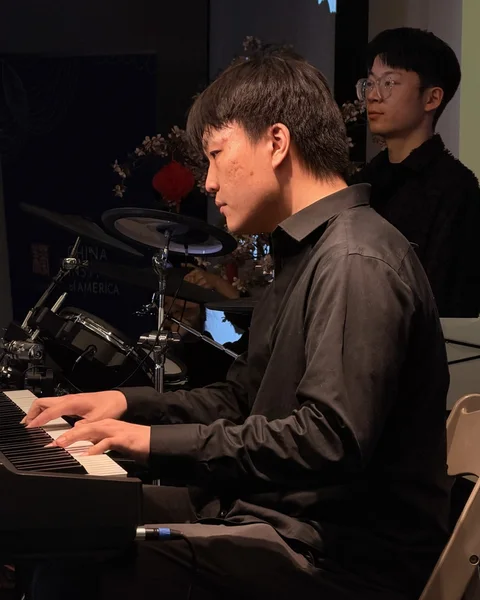
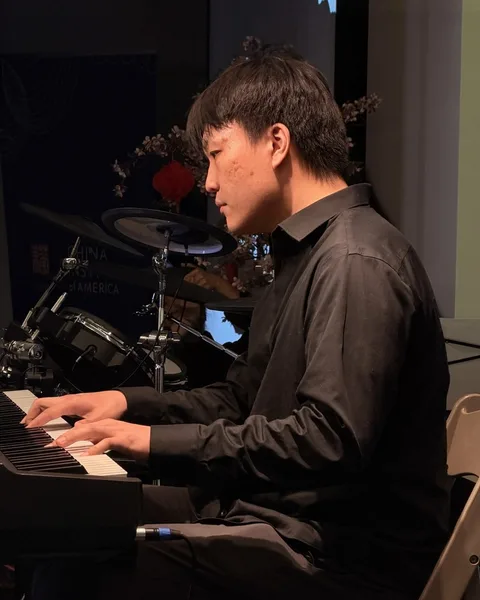
Will Song photo: dark stage shot, others removed

Changed region(s): [[0.7188, 0.03, 1.0, 0.54]]

diff --git a/index.html b/index.html
@@ -38,8 +38,8 @@
       d.className += ' motion ' + (ok ? 'sda' : 'sdf');
     })();
   </script>
-<link crossorigin="" href="https://cdn.jsdelivr.net" rel="preconnect"/><link href="https://cdn.jsdelivr.net/npm/lxgw-wenkai-webfont@1.7.0/lxgwwenkai-regular.css" media="print" onload="this.media='all'" rel="stylesheet"/><noscript><link href="https://cdn.jsdelivr.net/npm/lxgw-wenkai-webfont@1.7.0/lxgwwenkai-regular.css" rel="stylesheet"/></noscript><link href="style.css?v=20261117g" rel="stylesheet"/>
-<script defer="" onerror="document.documentElement.className=''" src="motion.js?v=20261117g"></script>
+<link crossorigin="" href="https://cdn.jsdelivr.net" rel="preconnect"/><link href="https://cdn.jsdelivr.net/npm/lxgw-wenkai-webfont@1.7.0/lxgwwenkai-regular.css" media="print" onload="this.media='all'" rel="stylesheet"/><noscript><link href="https://cdn.jsdelivr.net/npm/lxgw-wenkai-webfont@1.7.0/lxgwwenkai-regular.css" rel="stylesheet"/></noscript><link href="style.css?v=20261117h" rel="stylesheet"/>
+<script defer="" onerror="document.documentElement.className=''" src="motion.js?v=20261117h"></script>
 </head>
 <body>
 <a class="skip" data-i18n="t001" href="#main">跳到正文</a>
@@ -514,7 +514,7 @@
 </div>
 </article>
 <article class="member sd">
-<img alt="Will Song 老宋弹键盘" class="member-photo sd zoom" data-i18n-alt="alt120" decoding="async" height="1000" loading="lazy" style="object-position:50% 30%" src="img/member-willsong.webp?v=20261117g" width="800" srcset="img/s/member-willsong-480.webp?v=20261117g 480w, img/member-willsong.webp?v=20261117g 800w" sizes="(max-width: 980px) 46vw, 240px"/>
+<img alt="Will Song 老宋弹键盘" class="member-photo sd zoom" data-i18n-alt="alt120" decoding="async" height="1000" loading="lazy" style="object-position:50% 30%" src="img/member-willsong.webp?v=20261117h" width="800" srcset="img/s/member-willsong-480.webp?v=20261117h 480w, img/member-willsong.webp?v=20261117h 800w" sizes="(max-width: 980px) 46vw, 240px"/>
 <div class="member-body">
 <h3>Will Song</h3>
 <span class="nick" data-i18n="t121">老宋</span>
@@ -522,7 +522,7 @@
 </div>
 </article>
 <article class="member sd">
-<img alt="Minghao Qin 薯条打鼓" class="member-photo sd zoom" data-i18n-alt="alt123" decoding="async" height="1000" loading="lazy" style="object-position:50% 30%" src="img/member-minghao.webp?v=20261117g" width="800" srcset="img/s/member-minghao-480.webp?v=20261117g 480w, img/member-minghao.webp?v=20261117g 800w" sizes="(max-width: 980px) 46vw, 240px"/>
+<img alt="Minghao Qin 薯条打鼓" class="member-photo sd zoom" data-i18n-alt="alt123" decoding="async" height="1000" loading="lazy" style="object-position:50% 30%" src="img/member-minghao.webp?v=20261117h" width="800" srcset="img/s/member-minghao-480.webp?v=20261117h 480w, img/member-minghao.webp?v=20261117h 800w" sizes="(max-width: 980px) 46vw, 240px"/>
 <div class="member-body">
 <h3>Minghao Qin</h3>
 <span class="nick" data-i18n="t124">薯条</span>
@@ -531,7 +531,7 @@
 </div>
 </article>
 <article class="member sd">
-<img alt="Anki 安淇弹贝斯" class="member-photo sd zoom" data-i18n-alt="alt127" decoding="async" height="1000" loading="lazy" src="img/member-anki.webp?v=20261117g" width="800" srcset="img/s/member-anki-480.webp?v=20261117g 480w, img/member-anki.webp?v=20261117g 800w" sizes="(max-width: 980px) 46vw, 240px"/>
+<img alt="Anki 安淇弹贝斯" class="member-photo sd zoom" data-i18n-alt="alt127" decoding="async" height="1000" loading="lazy" src="img/member-anki.webp?v=20261117h" width="800" srcset="img/s/member-anki-480.webp?v=20261117h 480w, img/member-anki.webp?v=20261117h 800w" sizes="(max-width: 980px) 46vw, 240px"/>
 <div class="member-body">
 <h3>Anki</h3>
 <span class="nick" data-i18n="t128">安淇</span>
@@ -830,8 +830,8 @@
       document.addEventListener('webkitfullscreenchange', onFs);
     });
   </script>
-  <script src="i18n.js?v=20261117g"></script>
-  <script src="listen.js?v=20261117g"></script>
+  <script src="i18n.js?v=20261117h"></script>
+  <script src="listen.js?v=20261117h"></script>
 
 <script>
     (function () {
